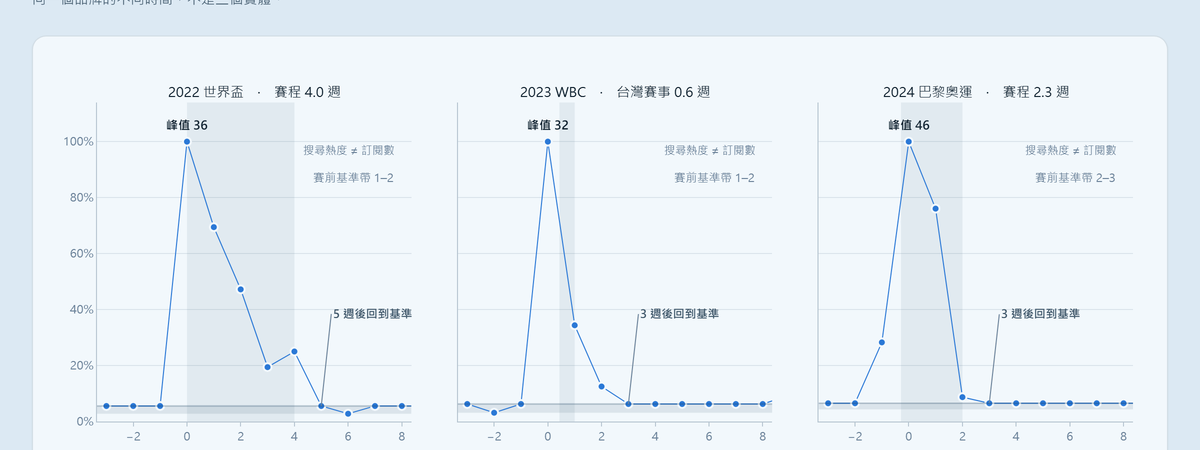
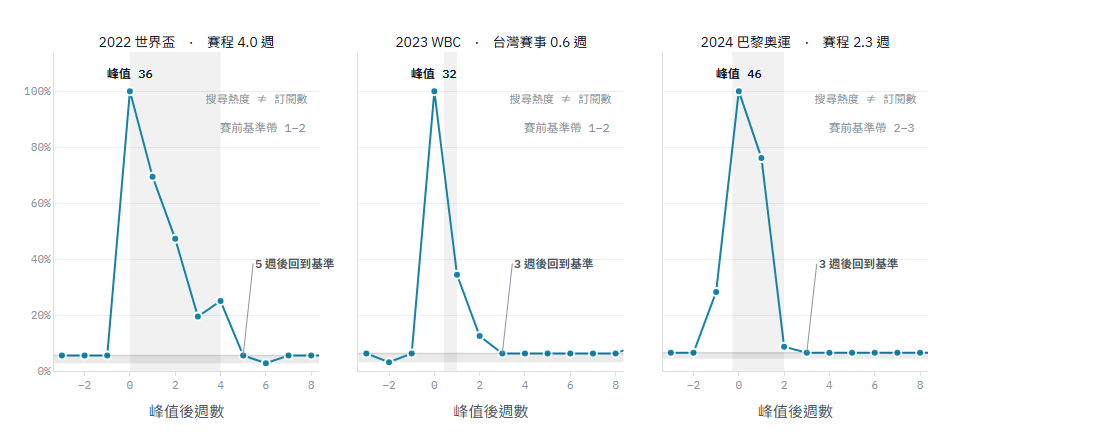
feat: 摘要頁補上前瞻方框，並重新產生改版前遺留的靜態圖
跟著 A 專案做同一組修改，改在 scripts/build_onepager.py，不動產出的 HTML。

1. 「不含模型，也不是每日運行的管線」改為「本專案不含模型…」，並列出三件
   建模作品（SECOM 半監督異常偵測、語音情緒辨識跨語料庫比較、台股情緒
   預測）。原句在一頁單獨閱讀時會被讀成能力缺口。三件作品寫進公開頁面前
   先回 ../portfolio.md 查證，未憑記憶。
2. 新增「若取得內部資料，第一步會看什麼」方框，與「我不宣稱的事」並排。
   分寸線：「建議公司做什麼」＝僭越（硬性約束第 4 條），「若我在內部會先
   看什麼」＝問題排序能力。維持假設語氣，grep 確認「建議」出現 0 次。

順手修掉一個過期產物：摘要頁內嵌的 docs/images/chart-decay-figure.png 是
2026-08-09 改版前產生的，標題被裁掉一行、配色也是舊的。它不在任何腳本的
輸出路徑裡，重跑 make_charts.py 不會碰到它，所以躲過了整輪驗收。已重新產生。

定案句、限制六條、驗證器斷言均未更動；verify_charts.py 全部通過。

diff --git a/charts/onepager.html b/charts/onepager.html
@@ -68,6 +68,17 @@ th:last-child,td:last-child{padding-right:0;}
        padding:16px 20px;display:flex;flex-direction:column;gap:9px;}
 .nc{font-size:12.8px;color:#4c5666;}
 .nc b{color:#a05a18;font-weight:500;}
+
+/* 「我不宣稱的事」與「若取得內部資料會先看什麼」並排：
+   前者是能力邊界，後者是問題排序。兩者相鄰，讀者才不會把前者讀成後者的缺席。
+   用系列主色而非警示色——這一欄不是警告，是前瞻。 */
+.twocol{display:grid;grid-template-columns:1fr 1fr;gap:22px;align-items:start;}
+.twocol h2{margin-top:32px;}
+.inside{background:#e5eff3;border:1px solid rgba(22,130,168,.22);border-radius:10px;
+       padding:16px 20px;display:flex;flex-direction:column;gap:9px;}
+.ii{font-size:12.8px;color:#4c5666;padding-left:15px;position:relative;}
+.ii::before{content:"";position:absolute;left:0;top:7px;width:5px;height:5px;
+           border-radius:50%;background:#1682a8;}
 code{font-family:'IBM Plex Mono', 'Noto Sans TC', ui-monospace, 'Cascadia Mono', 'SF Mono', Consolas, monospace;font-size:11.5px;background:rgba(19,24,34,.06);
     padding:2px 6px;border-radius:4px;color:#4c5666;}
 
@@ -79,7 +90,8 @@ code{font-family:'IBM Plex Mono', 'Noto Sans TC', ui-monospace, 'Cascadia Mono',
      font-family:'IBM Plex Mono', 'Noto Sans TC', ui-monospace, 'Cascadia Mono', 'SF Mono', Consolas, monospace;font-size:10.5px;line-height:1.9;color:#98a0ad;}
 a{color:#1682a8;text-decoration:none;border-bottom:1px solid rgba(22,130,168,.28);}
 a:hover{color:#0e647f;border-bottom-color:#0e647f;}
-@media (max-width:900px){.page{padding:32px 24px;}}
+@media (max-width:900px){.page{padding:32px 24px;}
+  .twocol{grid-template-columns:1fr;gap:0;}}
 </style>
 <div class="page">
 
@@ -134,8 +146,16 @@ a:hover{color:#0e647f;border-bottom-color:#0e647f;}
   <tr><td class='cap'>判準先於資料</td><td>閾值與事件選擇規則於檢視資料前存檔。<b>事後修正標示為事後，原數字保留不刪</b>：基準窗遭前一事件污染，故將 8 週 min–max 調整為 20 週 p25–p75</td><td class='where'>docs/decision-trail.md</td></tr><tr><td class='cap'>結論所依賴的量有測試</td><td>14 項 pytest 蓋住四個<b>會改變結論卻不會報錯</b>的函式；其中一項釘住基準帶的崩潰點，該定義並非無條件安全</td><td class='where'>scripts/metrics.py｜tests/</td></tr><tr><td class='cap'>驗證產出的成品，不是記憶體裡的物件</td><td>解析寫出的 HTML：shape 幾何、三種寬度的標註碰撞與溢出、<b>標註是否被資料線穿過</b></td><td class='where'>scripts/verify_charts.py</td></tr><tr><td class='cap'>不穩定來源的取用紀律</td><td>實測顯示配額機制為<b>觸發式封鎖</b>而非節流（0/30 橫跨 47.5 小時），因此改採 fail-fast；每次請求的成敗均寫入 append-only 紀錄</td><td class='where'>logs/quota_attempts.csv</td></tr><tr><td class='cap'>解析度作為方法論</td><td>同一場賽事，週級解析度將峰值判在開幕週，日級解析度則判在決賽日。<b>兩張都交付，因為分歧本身就是結果</b></td><td class='where'>charts/daily-vs-weekly.html</td></tr>
 </table>
 
-<h2>我不宣稱的事</h2>
-<div class="honest"><div class='nc'><b>沒有任何訂閱、退訂、註冊或轉換資料。</b>本分析僅能觀測搜尋關注度。</div><div class='nc'><b>不宣稱因果。</b>亦不使用預設有識別策略的方法名。三場之間賽事類型與賽程長度完全混淆（n=3），結論只能是描述性的。</div><div class='nc'><b>不含模型，也不是每日運行的管線。</b>價值在約束與工程紀律，不在演算法。</div><div class='nc'><b>深色模式未做。</b>兩種模式應各自訂定調色盤而非自動反轉，尚未執行。</div><div class='nc'><b>四項驗證未完成（可重現性、MOD 對照、事件詞、兩個日級窗）。</b>均遭配額限制。逐項評估「未補齊是否構成交付阻斷」，結論皆為不構成阻斷。</div></div>
+<div class="twocol">
+  <div>
+    <h2>我不宣稱的事</h2>
+    <div class="honest"><div class='nc'><b>沒有任何訂閱、退訂、註冊或轉換資料。</b>本分析僅能觀測搜尋關注度。</div><div class='nc'><b>不宣稱因果。</b>亦不使用預設有識別策略的方法名。三場之間賽事類型與賽程長度完全混淆（n=3），結論只能是描述性的。</div><div class='nc'><b>本專案不含模型，也不是每日運行的管線。</b>建模作品另見 SECOM 半監督異常偵測、語音情緒辨識跨語料庫比較、台股情緒預測。價值在約束與工程紀律，不在演算法。</div><div class='nc'><b>深色模式未做。</b>兩種模式應各自訂定調色盤而非自動反轉，尚未執行。</div><div class='nc'><b>四項驗證未完成（可重現性、MOD 對照、事件詞、兩個日級窗）。</b>均遭配額限制。逐項評估「未補齊是否構成交付阻斷」，結論皆為不構成阻斷。</div></div>
+  </div>
+  <div>
+    <h2>若取得內部資料，第一步會看什麼</h2>
+    <div class="inside"><div class='ii'>若取得訂閱與退訂資料，把搜尋熱度曲線與實際訂閱曲線疊起來，量化代理指標的效度。</div></div>
+  </div>
+</div>
 
 <div class="qrbar">
   <b>掃描頁首 QR 開啟線上互動圖表</b>：三格衰退主圖（可查每週指數），

diff --git a/scripts/build_onepager.py b/scripts/build_onepager.py
@@ -110,10 +110,23 @@ NOT_CLAIMED = [
     ("不宣稱因果。",
      "亦不使用預設有識別策略的方法名。三場之間賽事類型與賽程長度完全混淆（n=3），"
      "結論只能是描述性的。"),
-    ("不含模型，也不是每日運行的管線。", "價值在約束與工程紀律，不在演算法。"),
+    # 原本只寫「不含模型」——這一頁設計成可單獨閱讀，那句會被讀成能力缺口。
+    # 補上建模作品的指路，把「本專案的取捨」與「這個人不會建模」分開。
+    # 三件作品均可在 ../portfolio.md 找到佐證。
+    ("本專案不含模型，也不是每日運行的管線。",
+     "建模作品另見 SECOM 半監督異常偵測、語音情緒辨識跨語料庫比較、台股情緒預測。"
+     "價值在約束與工程紀律，不在演算法。"),
     ("深色模式未做。", "兩種模式應各自訂定調色盤而非自動反轉，尚未執行。"),
     ("四項驗證未完成（可重現性、MOD 對照、事件詞、兩個日級窗）。",
      "均遭配額限制。逐項評估「未補齊是否構成交付阻斷」，結論皆為不構成阻斷。"),
+]
+
+# 「若取得內部資料，第一步會看什麼」。
+# 分寸線：**「建議公司做什麼」＝僭越；「若我在內部會先看什麼」＝問題排序能力。**
+# 維持假設語氣，不出現「建議」二字（本專案硬性約束第 4 條：不僭越）。
+IF_INSIDE = [
+    "若取得訂閱與退訂資料，把搜尋熱度曲線與實際訂閱曲線疊起來，"
+    "量化代理指標的效度。",
 ]
 
 
@@ -140,6 +153,7 @@ def build(s, rows) -> str:
         f"<tr><td class='cap'>{c}</td><td>{w}</td>"
         f"<td class='where'>{p}</td></tr>" for c, w, p in EVIDENCE)
     nc = "".join(f"<div class='nc'><b>{h}</b>{t}</div>" for h, t in NOT_CLAIMED)
+    ii = "".join(f"<div class='ii'>{t}</div>" for t in IF_INSIDE)
     tbl = "".join(
         f"<tr><td>{r['name']}</td><td>{r['dur']}</td><td>{r['peak']}</td>"
         f"<td>{r['burst']}×</td><td>{r['blo']:.0f}–{r['bhi']:.0f}</td>"
@@ -218,6 +232,17 @@ th:last-child,td:last-child{{padding-right:0;}}
        padding:16px 20px;display:flex;flex-direction:column;gap:9px;}}
 .nc{{font-size:12.8px;color:{INK2};}}
 .nc b{{color:{WARN};font-weight:500;}}
+
+/* 「我不宣稱的事」與「若取得內部資料會先看什麼」並排：
+   前者是能力邊界，後者是問題排序。兩者相鄰，讀者才不會把前者讀成後者的缺席。
+   用系列主色而非警示色——這一欄不是警告，是前瞻。 */
+.twocol{{display:grid;grid-template-columns:1fr 1fr;gap:22px;align-items:start;}}
+.twocol h2{{margin-top:32px;}}
+.inside{{background:{PAPER2};border:1px solid rgba(22,130,168,.22);border-radius:10px;
+       padding:16px 20px;display:flex;flex-direction:column;gap:9px;}}
+.ii{{font-size:12.8px;color:{INK2};padding-left:15px;position:relative;}}
+.ii::before{{content:"";position:absolute;left:0;top:7px;width:5px;height:5px;
+           border-radius:50%;background:{S1};}}
 code{{font-family:{MONO};font-size:11.5px;background:rgba(19,24,34,.06);
     padding:2px 6px;border-radius:4px;color:{INK2};}}
 
@@ -229,7 +254,8 @@ code{{font-family:{MONO};font-size:11.5px;background:rgba(19,24,34,.06);
      font-family:{MONO};font-size:10.5px;line-height:1.9;color:#98a0ad;}}
 a{{color:{S1};text-decoration:none;border-bottom:1px solid rgba(22,130,168,.28);}}
 a:hover{{color:{S1_D};border-bottom-color:{S1_D};}}
-@media (max-width:900px){{.page{{padding:32px 24px;}}}}
+@media (max-width:900px){{.page{{padding:32px 24px;}}
+  .twocol{{grid-template-columns:1fr;gap:0;}}}}
 </style>
 <div class="page">
 
@@ -284,8 +310,16 @@ a:hover{{color:{S1_D};border-bottom-color:{S1_D};}}
   {ev}
 </table>
 
-<h2>我不宣稱的事</h2>
-<div class="honest">{nc}</div>
+<div class="twocol">
+  <div>
+    <h2>我不宣稱的事</h2>
+    <div class="honest">{nc}</div>
+  </div>
+  <div>
+    <h2>若取得內部資料，第一步會看什麼</h2>
+    <div class="inside">{ii}</div>
+  </div>
+</div>
 
 <div class="qrbar">
   <b>掃描頁首 QR 開啟線上互動圖表</b>：三格衰退主圖（可查每週指數），
